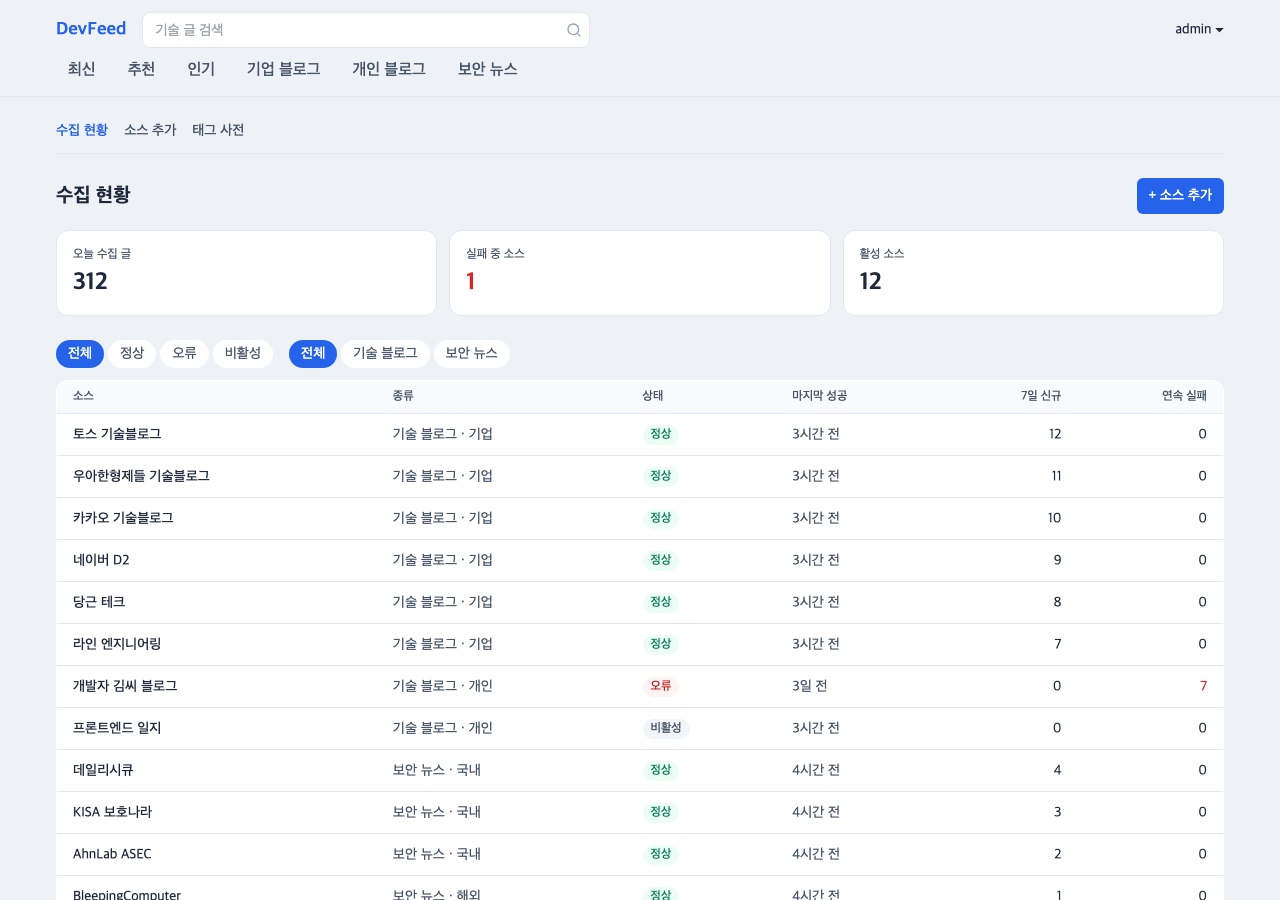
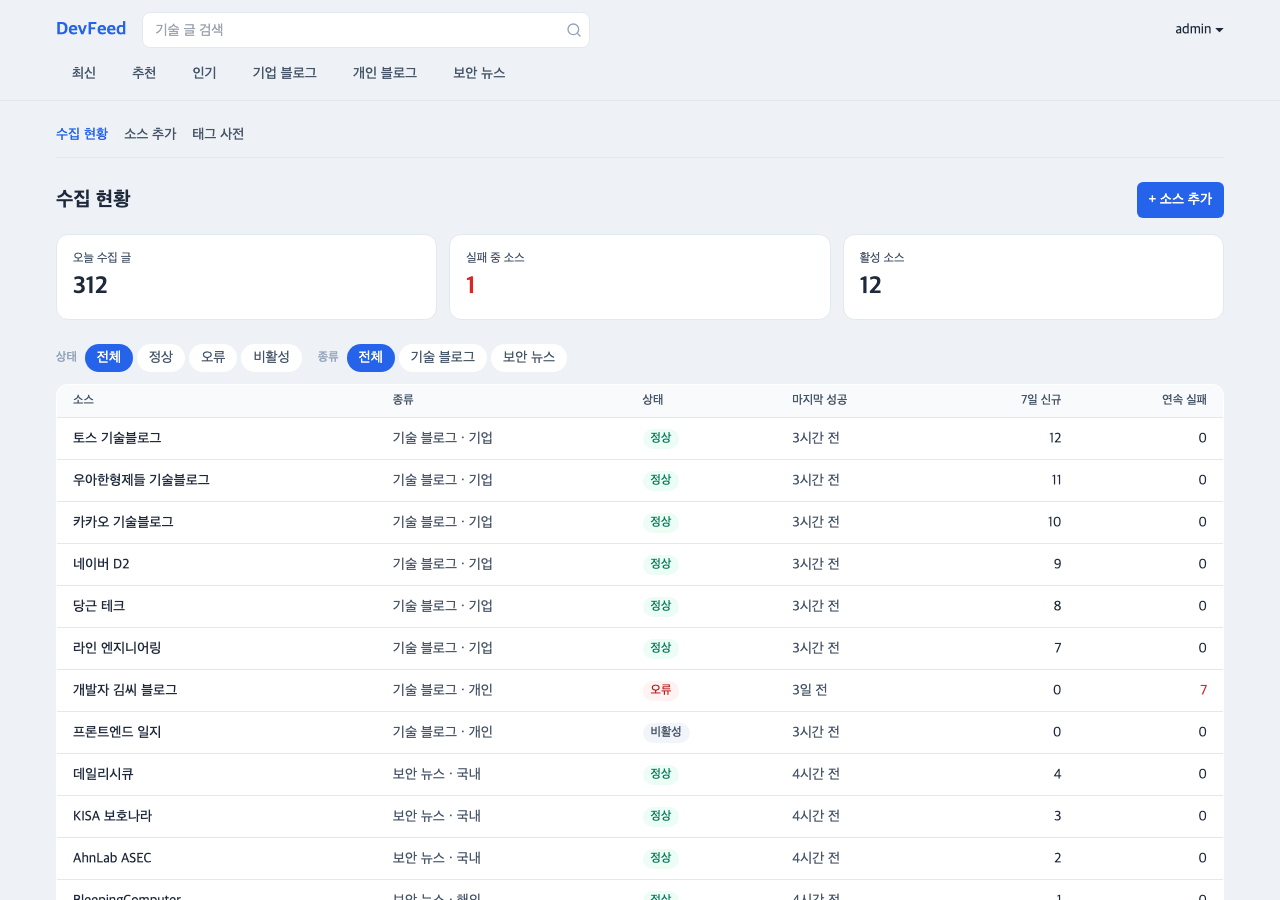
feat(client): restyle feed tabs with sliding pill indicator

diff --git a/client/src/components/layout/FeedTabs.tsx b/client/src/components/layout/FeedTabs.tsx
@@ -1,4 +1,4 @@
-import { useEffect, useRef } from 'react';
+import { useEffect, useLayoutEffect, useRef, useState, type CSSProperties } from 'react';
 import { NavLink, useLocation, useSearchParams } from 'react-router';
 import { cn } from '@/lib/cn';
 import { M7_API_READY } from '@/lib/features';
@@ -24,14 +24,48 @@ export const FEED_TABS = M7_API_READY ? ALL_TABS : ALL_TABS.filter((t) => t.to !
 const FADE =
   '[mask-image:linear-gradient(to_right,transparent,#000_16px,#000_calc(100%-16px),transparent)] lg:[mask-image:none]';
 
-function useRevealActive<T extends HTMLElement>(dep: string) {
+const ACTIVE = '[aria-current="page"], [aria-checked="true"]';
+
+function useSlidingIndicator<T extends HTMLElement>(dep: string) {
   const ref = useRef<T>(null);
-  useEffect(() => {
-    const el = ref.current?.querySelector<HTMLElement>('[aria-current="page"], [aria-checked="true"]');
-    el?.scrollIntoView?.({ block: 'nearest', inline: 'nearest' });
+  const [style, setStyle] = useState<CSSProperties>({ opacity: 0 });
+  const placed = useRef(false);
+
+  useLayoutEffect(() => {
+    const box = ref.current;
+    if (!box) return;
+    const place = () => {
+      const el = box.querySelector<HTMLElement>(ACTIVE);
+      if (!el) {
+        placed.current = false;
+        setStyle({ opacity: 0 });
+        return;
+      }
+      setStyle({
+        opacity: 1,
+        width: el.offsetWidth,
+        height: el.offsetHeight,
+        transform: `translate(${el.offsetLeft}px, ${el.offsetTop}px)`,
+        transitionProperty: placed.current ? 'transform, width, opacity' : 'none',
+      });
+      placed.current = true;
+    };
+    place();
+    if (typeof ResizeObserver === 'undefined') return;
+    const ro = new ResizeObserver(place);
+    ro.observe(box);
+    return () => ro.disconnect();
   }, [dep]);
-  return ref;
+
+  useEffect(() => {
+    const el = ref.current?.querySelector<HTMLElement>(ACTIVE);
+    el?.scrollIntoView?.({ block: 'nearest', inline: 'nearest', behavior: 'smooth' });
+  }, [dep]);
+
+  return { ref, style };
 }
+
+const INDICATOR = 'pointer-events-none absolute left-0 top-0 duration-300 ease-[cubic-bezier(0.2,0.8,0.2,1)] motion-reduce:duration-0';
 
 export function isFieldTab(pathname: string) {
   return M7_API_READY && FEED_TABS.some((t) => t.field && t.to === pathname);
@@ -41,10 +75,15 @@ export function FeedTabs() {
   const { pathname } = useLocation();
   const [params] = useSearchParams();
   const field = isFieldTab(pathname) ? parseField(params.get('field')) : null;
-  const ref = useRevealActive<HTMLElement>(pathname);
+  const { ref, style } = useSlidingIndicator<HTMLElement>(pathname);
 
   return (
-    <nav ref={ref} aria-label="피드" className={cn('scrollbar-none flex overflow-x-auto px-2 lg:gap-2 lg:px-0', FADE)}>
+    <nav
+      ref={ref}
+      aria-label="피드"
+      className={cn('scrollbar-none relative isolate flex items-center gap-1 overflow-x-auto px-3 py-2 lg:px-0', FADE)}
+    >
+      <span aria-hidden className={cn(INDICATOR, '-z-10 rounded-full bg-brand-soft ring-1 ring-inset ring-blue-100')} style={style} />
       {FEED_TABS.map((tab) => (
         <NavLink
           key={tab.to}
@@ -52,8 +91,9 @@ export function FeedTabs() {
           end={tab.to === '/'}
           className={({ isActive }) =>
             cn(
-              'flex h-12 shrink-0 items-center whitespace-nowrap border-b-[3px] px-3 text-[15px] sm:text-base',
-              isActive ? 'border-brand font-bold text-fg' : 'border-transparent font-medium text-fg-secondary hover:text-fg',
+              'flex h-9 shrink-0 items-center whitespace-nowrap rounded-full px-4 text-sm transition-colors duration-200',
+              'focus-visible:outline-none focus-visible:ring-2 focus-visible:ring-brand/40',
+              isActive ? 'font-semibold text-brand' : 'font-medium text-fg-secondary hover:bg-slate-100 hover:text-fg',
             )
           }
         >
@@ -68,7 +108,7 @@ export function FieldTabs() {
   const { pathname } = useLocation();
   const [params, setParams] = useSearchParams();
   const current = parseField(params.get('field'));
-  const ref = useRevealActive<HTMLDivElement>(`${pathname}:${current?.key ?? ''}`);
+  const { ref, style } = useSlidingIndicator<HTMLDivElement>(`${pathname}:${current?.key ?? ''}`);
   if (!isFieldTab(pathname)) return null;
 
   const select = (key: string | null) =>
@@ -89,8 +129,10 @@ export function FieldTabs() {
       ref={ref}
       role="radiogroup"
       aria-label="분야"
-      className={cn('scrollbar-none flex gap-1.5 overflow-x-auto px-4 py-2 lg:px-0', FADE)}
+      className={cn('scrollbar-none overflow-x-auto px-4 py-2 lg:px-0', FADE)}
     >
+      <div className="relative isolate inline-flex gap-0.5 rounded-full bg-slate-100 p-1">
+        <span aria-hidden className={cn(INDICATOR, '-z-10 rounded-full bg-surface shadow-sm ring-1 ring-black/5')} style={style} />
       {options.map((o) => {
         const on = (current?.key ?? null) === o.key;
         return (
@@ -101,14 +143,16 @@ export function FieldTabs() {
             aria-checked={on}
             onClick={() => select(o.key)}
             className={cn(
-              'h-8 shrink-0 whitespace-nowrap rounded-full px-3.5 text-sm transition-colors',
-              on ? 'bg-slate-800 font-semibold text-white' : 'bg-slate-100 text-fg-secondary hover:bg-slate-200 hover:text-fg',
+              'h-7 shrink-0 whitespace-nowrap rounded-full px-3 text-[13px] transition-colors duration-200',
+              'focus-visible:outline-none focus-visible:ring-2 focus-visible:ring-brand/40',
+              on ? 'font-semibold text-fg' : 'text-fg-secondary hover:text-fg',
             )}
           >
             {o.label}
           </button>
         );
       })}
+      </div>
     </div>
   );
 }

diff --git a/docs/discussions/021-tabs-and-security-news.md b/docs/discussions/021-tabs-and-security-news.md
@@ -301,3 +301,12 @@
 - 공개 API 대조: 보안 뉴스 6곳 모두 수집(데일리시큐 50+·KISA 10·ASEC 30·THN 50+·Bleeping 15·SecurityWeek 10), 썸네일 0·요약 150자 초과 0·`isPopular` 0, 최신·인기·검색 응답에 뉴스 0건
 - server(165건·정합성 0), dba(시드 적용·공개 목록 뉴스 0), client(지역·출처 불일치 0) 결과와 일치
 - 수용 기준 충족 → **M7 완료**. 관리자 종류·지역 화면은 로그인 필요 → 사용자 확인 항목으로 남김 (M7 완료 조건 아님)
+
+### client (6차) — 탭 디자인 변경 (사용자 요청, 2026-11-20)
+- 사용자 피드백: 활성 탭 밑줄 표시가 어색하고, 글자만 커져서 더 이상함 → 글자 크기 원복, 활성 표시·탭 이동을 더 예쁘게
+- 변경 (결정 1번 "글자 15~16px, 높이 48px, 밑줄 3px"을 대체. pm은 03 반영 요청)
+  - 1단: 글자 14px, 탭 36px(줄 52px). 활성 = 옅은 파랑 알약 배경 + 파랑 굵은 글자. 밑줄 없음
+  - 탭 이동 시 알약이 0.3초 동안 새 탭으로 미끄러져 이동. 동작 줄이기 설정이면 즉시 이동
+  - 2단 분야: 회색 트랙 안 세그먼트, 선택 항목은 흰 알약(그림자)이 미끄러져 이동. 1단과 모양을 구분함
+  - 키보드 포커스는 파랑 링으로 표시
+- 검증: 테스트 108건 통과, 캡처 가로 넘침 없음, 사이드바 1280×720 최대 선택 스크롤 없음 유지. 브라우저 측정으로 이동 중 위치가 중간값을 거쳐 대상 탭 `offsetLeft`에 정확히 멈추는 것 확인. `build:web` 재배포
